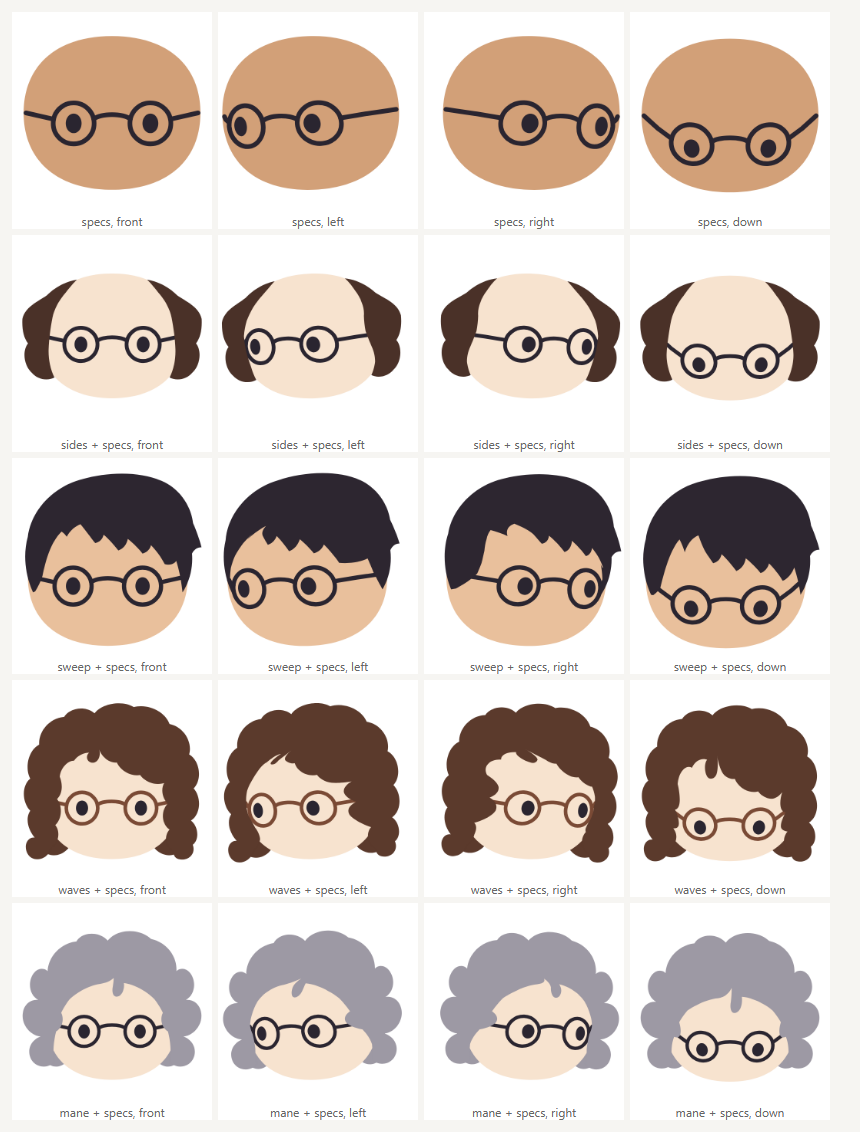
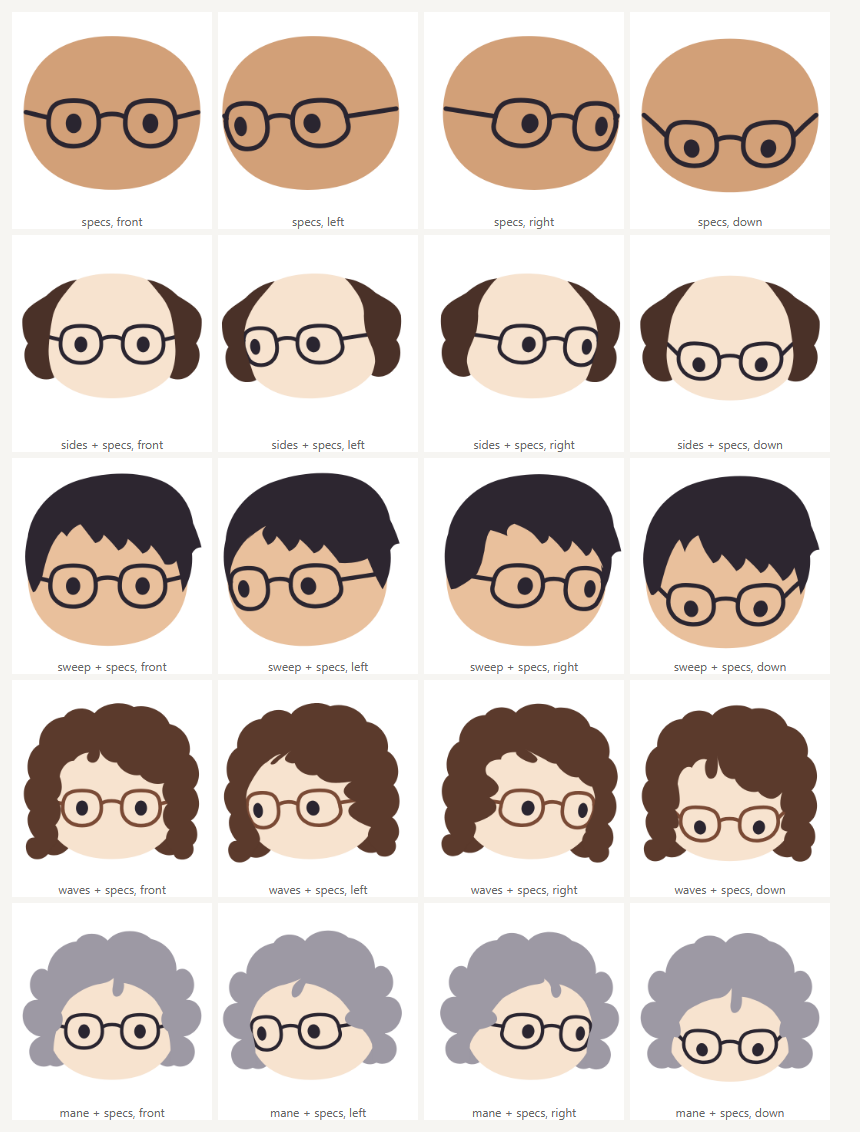
Make the glasses' rims larger and no longer round
Each rim is now a little wider than it is tall and a soft shape between a
circle and a rounded square, flatter across its top and rounder below.

diff --git a/src/parts/eyewear/specs.ts b/src/parts/eyewear/specs.ts
@@ -1,17 +1,27 @@
 import { face, type Part, type Shape, Z } from "../../part.ts";
 
-/** A round rim about a point. */
-const rim = (x: number, y: number, r: number) => {
-  const k = Math.round(r * 55.23) / 100;
-  return `M${x - r} ${y}C${x - r} ${y - k} ${x - k} ${y - r} ${x} ${y - r}C${x + k} ${y - r} ${x + r} ${y - k} ${x + r} ${y}C${x + r} ${y + k} ${x + k} ${y + r} ${x} ${y + r}C${x - k} ${y + r} ${x - r} ${y + k} ${x - r} ${y}Z`;
+/** How far a rim reaches from its eye's middle, across and down. It is a little wider than it
+ * is tall. */
+const REACH = [10.8, 9.8] as const;
+/** How square a rim's corners are: squarer above, so its top is flatter, and rounder below. */
+const CORNER = { top: 0.74, bottom: 0.6 } as const;
+
+const n = (value: number) => Math.round(value * 100) / 100;
+
+/** A rim about a point: a soft shape between a circle and a rounded square. */
+const rim = (x: number, y: number) => {
+  const [rx, ry] = REACH;
+  const [tx, ty] = [n(rx * CORNER.top), n(ry * CORNER.top)];
+  const [bx, by] = [n(rx * CORNER.bottom), n(ry * CORNER.bottom)];
+  return `M${n(x - rx)} ${y}C${n(x - rx)} ${n(y - ty)} ${n(x - tx)} ${n(y - ry)} ${x} ${n(y - ry)}C${n(x + tx)} ${n(y - ry)} ${n(x + rx)} ${n(y - ty)} ${n(x + rx)} ${y}C${n(x + rx)} ${n(y + by)} ${n(x + bx)} ${n(y + ry)} ${x} ${n(y + ry)}C${n(x - bx)} ${n(y + ry)} ${n(x - rx)} ${n(y + by)} ${n(x - rx)} ${y}Z`;
 };
 
 /** A line of the frame, on the face. */
 const wire = (d: string): Shape => ({ d: [face(d)], stroke: "0", width: 2 });
 
-/** Round wire glasses: a rim about each eye, a bridge between them, and an arm from each rim
- * out to the side of the head. All of them lie on the face, so in a turn each rim goes with its
- * eye, the one ahead narrowing, and the arm on the side turned toward us lengthens. */
+/** Wire glasses: a rim about each eye, a bridge between them, and an arm from each rim out to
+ * the side of the head. All of them lie on the face, so in a turn each rim goes with its eye,
+ * the one ahead narrowing, and the arm on the side turned toward us lengthens. */
 export const specs: Part = {
   id: "specs",
   slot: "eyewear",
@@ -20,11 +30,11 @@ export const specs: Part = {
     {
       z: Z.eyewear,
       shapes: [
-        wire(rim(33.5, 60, 8.8)),
-        wire(rim(66.5, 60, 8.8)),
-        wire("M42.1 58.2C45 55.6 55 55.6 57.9 58.2"),
-        wire("M24.9 58.2L13 55.5"),
-        wire("M75.1 58.2L87 55.5"),
+        wire(rim(33.5, 60)),
+        wire(rim(66.5, 60)),
+        wire("M44.2 57.6C46.6 55.4 53.4 55.4 55.8 57.6"),
+        wire("M22.8 57.6L13 55.2"),
+        wire("M77.2 57.6L87 55.2"),
       ],
     },
   ],

diff --git a/test/motion.test.ts b/test/motion.test.ts
@@ -109,13 +109,16 @@ test("as the head turns, what lies on the face travels round it and narrows towa
 
 test("a rim of the glasses stays about its eye through a turn, and narrows with it", () => {
   const turned = settled({ x: 1, y: 0 });
-  // The far eye's rim: its left, right, top and bottom, 8.8 from the eye's middle.
+  // The far eye's rim: its left, right, top and bottom, as far from the eye's middle as a rim
+  // reaches across and down.
+  const [across, down] = [10.8, 9.8];
   const eye = placed(turned, 66.5, 60);
-  const [left, right] = [placed(turned, 57.7, 60), placed(turned, 75.3, 60)];
-  const [top, bottom] = [placed(turned, 66.5, 51.2), placed(turned, 66.5, 68.8)];
+  const [left, right] = [placed(turned, 66.5 - across, 60), placed(turned, 66.5 + across, 60)];
+  const [top, bottom] = [placed(turned, 66.5, 60 - down), placed(turned, 66.5, 60 + down)];
   assert.ok(left[0] < eye[0] && eye[0] < right[0] && top[1] < eye[1] && eye[1] < bottom[1]);
-  assert.ok(right[0] - left[0] < 17.6 * 0.95, "it is narrower than it is drawn");
-  assert.ok(right[0] - left[0] < bottom[1] - top[1], "and narrower than it is tall");
+  const [wide, tall] = [right[0] - left[0], bottom[1] - top[1]];
+  assert.ok(wide < across * 2 * 0.95, "it is narrower than it is drawn");
+  assert.ok(wide / tall < across / down, "and narrower for its height than it is drawn");
   assert.ok(Math.hypot((right[0] - 50) / 38, (right[1] - 55.5) / 33) < 1, "and on the face");
 });
 
